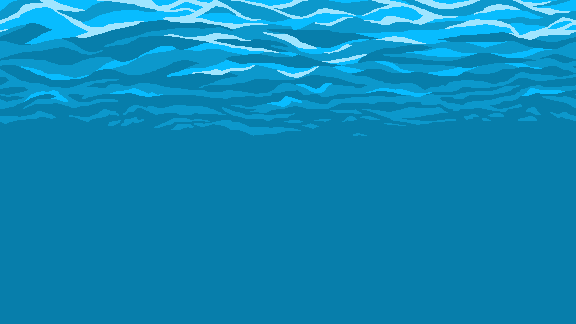
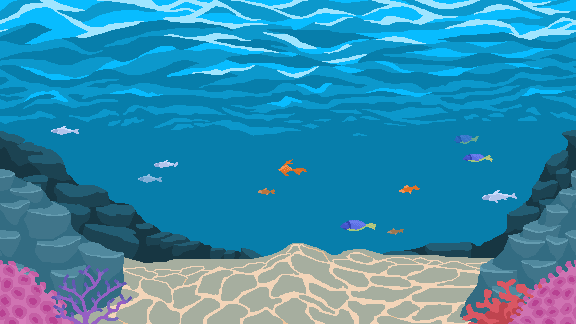
Update: Add fish rectangles

diff --git a/main.py b/main.py
@@ -7,10 +7,13 @@ pygame.font.init()
 pygame.init()
 
 
-WIDTH, HEIGHT = 1200, 700
+WIDTH, HEIGHT = 1000, 500
 PLAYER_WIDTH = 40
 PLAYER_HEIGHT = 60
 PLAYER_VELOCITY = 5
+FISH_WIDTH = 10
+FISH_HEIGHT = 20
+FISH_VELOCITY = 3
 FONT = pygame.font.SysFont("comicsans", 30)
 
 WIN = pygame.display.set_mode((WIDTH, HEIGHT))
@@ -20,11 +23,16 @@ pygame.display.set_caption("Popper Fish")
 BG = pygame.transform.scale(pygame.image.load("assets/images/bg.png"), (WIDTH, HEIGHT))
 
 
-def draw(player, elapsed_time):
+def draw(player, elapsed_time, fishes):
     WIN.blit(BG, (0, 0))
-    time_text = FONT.render(f"Time: {int(elapsed_time)}s", 1, "white")
+    time_text = FONT.render(f"Time: {round(elapsed_time)}s", 1, "white")
     WIN.blit(time_text, (10, 10))
     pygame.draw.rect(WIN, "red", player)
+    
+
+    for fish in fishes:
+        pygame.draw.rect(WIN, "blue", fish)
+
     pygame.display.update()
 
 def main():
@@ -34,11 +42,26 @@ def main():
     start_time = time.time()
     elapsed_time = 0
 
+    fish_add_increment = 2000
+    fish_count = 0
+
+    fishes = []
+    hit = False
+
     player = pygame.Rect(200, HEIGHT - PLAYER_HEIGHT, PLAYER_WIDTH, PLAYER_HEIGHT)
     
     while run:
-        clock.tick(60) 
+        fish_count += clock.tick(60) 
         elapsed_time = time.time() - start_time
+
+        if fish_count >= fish_add_increment:
+            for _ in range(3):
+                fish_x = random.randint(0, WIDTH - FISH_WIDTH)
+                fish = pygame.Rect(fish_x, -FISH_HEIGHT, FISH_WIDTH, FISH_HEIGHT)
+                fishes.append(fish)
+
+            fish_add_increment = max(200, fish_add_increment - 50)
+            fish_count = 0
 
         for event in pygame.event.get():
             if event.type == pygame.QUIT:
@@ -46,12 +69,28 @@ def main():
                 break
 
         keys = pygame.key.get_pressed()
-        if keys[pygame.K_LEFT] and player.x - PLAYER_VELOCITY >=0:
+        if keys[pygame.K_a] and player.x - PLAYER_VELOCITY >=0:
             player.x -= PLAYER_VELOCITY
-        if keys[pygame .K_RIGHT] and player.x + PLAYER_VELOCITY + player.width <= WIDTH:
+        if keys[pygame .K_d] and player.x + PLAYER_VELOCITY + player.width <= WIDTH:
             player.x += PLAYER_VELOCITY
 
-        draw(player, elapsed_time)
+        for fish in fishes[:]:
+            fish.y += FISH_VELOCITY
+            if fish.y > HEIGHT:
+                fishes.remove(fish)
+            elif fish.y + fish.height >= player.y and fish.colliderect(player):
+                fishes.remove(fish)
+                hit = True
+                break
+
+        if hit:
+            lost_text = FONT.render("You got hit by a fish!", 1, "red")
+            WIN.blit(lost_text, (WIDTH / 2 - lost_text.get_width() / 2, HEIGHT / 2 - lost_text.get_height() / 2))
+            pygame.display.update()
+            pygame.time.delay(4000)
+            break
+
+        draw(player, elapsed_time, fishes)
 
     pygame.quit()
 
